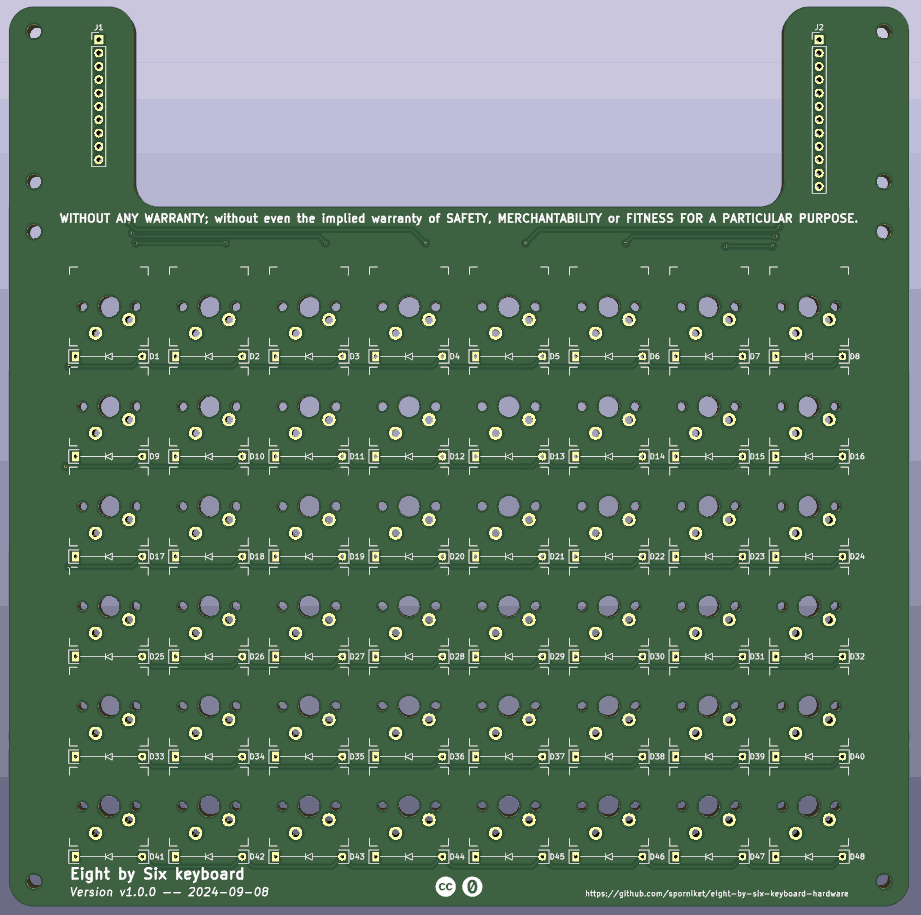
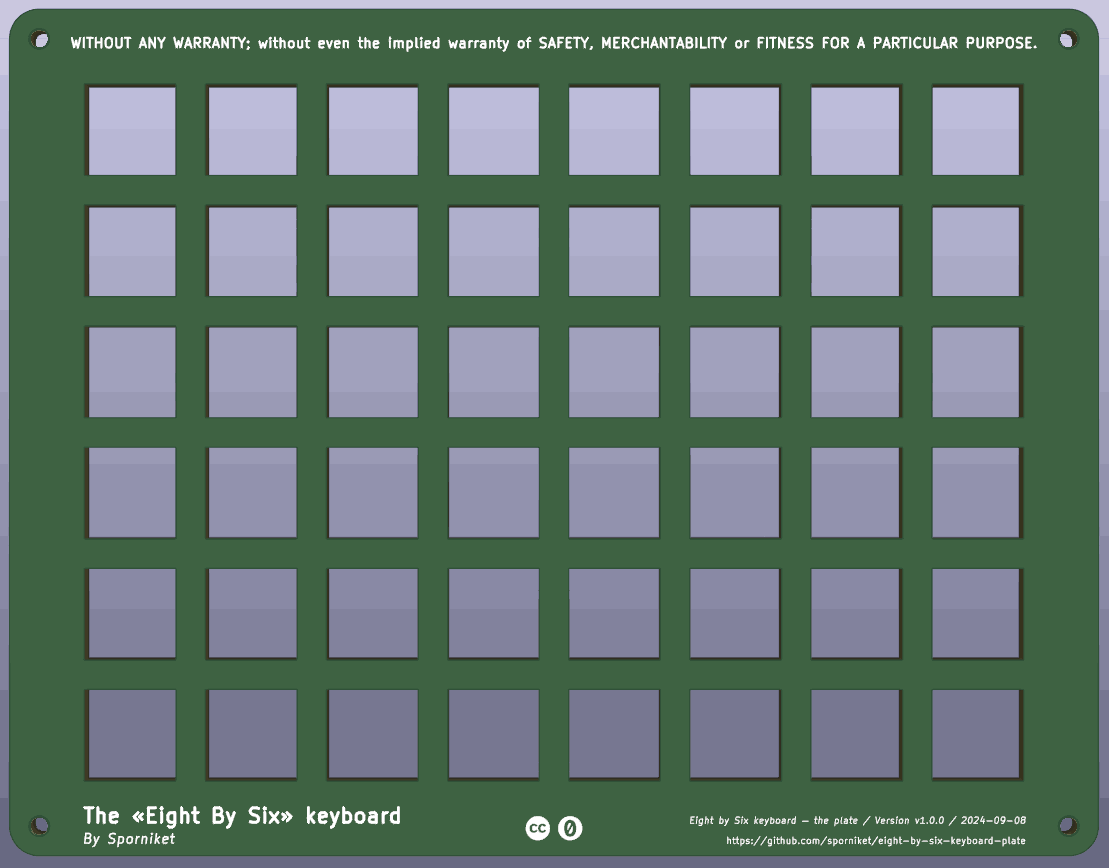
change the mention of 'hardware' to 'plate', adjust the look of the plate

diff --git a/README.md b/README.md
@@ -1,28 +1,28 @@
-# 8 columns × 6 rows keyboard hardware
+# 8 columns × 6 rows keyboard plate
 
 > [WARNING] Please read carefully this note before using this project. It contains important facts.
 
 Content
 
-1. What is **8 columns × 6 rows keyboard hardware**, and when to use it ?
-2. What should you know before using **8 columns × 6 rows keyboard hardware** ?
-3. How to use **8 columns × 6 rows keyboard hardware** ?
+1. What is **8 columns × 6 rows keyboard plate**, and when to use it ?
+2. What should you know before using **8 columns × 6 rows keyboard plate** ?
+3. How to use **8 columns × 6 rows keyboard plate** ?
 4. Known issues
 5. Miscellanous
 
-## 1. What is **8 columns × 6 rows keyboard hardware**, and when to use it ?
+## 1. What is **8 columns × 6 rows keyboard plate**, and when to use it ?
 
-**8 columns × 6 rows keyboard hardware** is a hardware project of an ortholinear, 8 columns by 6 rows, DIY keyboard. This keyboard has 2 connectors port to plug a driver board that will be driven by the micro-controller of your choice (Raspberry Pi Pico, Espressif ESP32, ATmega, ...) and will be responsible for scanning keys, displaying status and communicate with the host computer.
+**8 columns × 6 rows keyboard plate** is a plate project for an ortholinear, 8 columns by 6 rows, DIY keyboard. It's a companion project to the [8 columns × 6 rows keyboard](https://github.com/sporniket/eight-by-six-keyboard-hardware).
 
 ![PCB preview](gallery/overview.png)
 
 ### Licence
 
-**8 columns × 6 rows keyboard hardware** is published under the Creative Commons CC0 license. You can find a copy of the licence there : https://creativecommons.org/publicdomain/zero/1.0/legalcode
+**8 columns × 6 rows keyboard plate** is published under the Creative Commons CC0 license. You can find a copy of the licence there : https://creativecommons.org/publicdomain/zero/1.0/legalcode
 
 You can copy, modify, distribute and perform the work, even for commercial purposes, all without asking permission.
 
-**8 columns × 6 rows keyboard hardware** is distributed in the hope that it will be useful, but WITHOUT ANY WARRANTY; without even the implied warranty of MERCHANTABILITY or FITNESS FOR A PARTICULAR PURPOSE.
+**8 columns × 6 rows keyboard plate** is distributed in the hope that it will be useful, but WITHOUT ANY WARRANTY; without even the implied warranty of MERCHANTABILITY or FITNESS FOR A PARTICULAR PURPOSE.
 
 ### Release notes
 
@@ -30,27 +30,26 @@ You can copy, modify, distribute and perform the work, even for commercial purpo
 
 * Initial release
 
-## 2. What should you know before using **8 columns × 6 rows keyboard hardware** ?
+## 2. What should you know before using **8 columns × 6 rows keyboard plate** ?
 
-* **8 columns × 6 rows keyboard hardware** is made using Kicad 8.
-* This project use the footprint library of key switches from : https://github.com/siderakb/key-switches.pretty
+* **8 columns × 6 rows keyboard plate** is made using Kicad 8.
 
-> Do not use **8 columns × 6 rows keyboard hardware** if this project is not suitable for your project.
+> Do not use **8 columns × 6 rows keyboard plate** if this project is not suitable for your project.
 
-## 3. How to use **8 columns × 6 rows keyboard hardware** ?
+## 3. How to use **8 columns × 6 rows keyboard plate** ?
 
 ### From sources
 
 To get the latest available work, one must clone the git repository, build and install the package.
 
-	git clone --recurse-submodules https://github.com/sporniket/eight-by-six-keyboard-hardware.git
+	git clone --recurse-submodules https://github.com/sporniket/eight-by-six-keyboard-plate.git
 
 Then, open the project with Kicad 8.
 
 ## 4. Known issues
-See the [project issues](https://github.com/sporniket/eight-by-six-keyboard-hardware/issues) page.
+See the [project issues](https://github.com/sporniket/eight-by-six-keyboard-plate/issues) page.
 
 ## 5. Miscellanous
 
 ### Report issues
-Use the [project issues](https://github.com/sporniket/eight-by-six-keyboard-hardware/issues) page.
+Use the [project issues](https://github.com/sporniket/eight-by-six-keyboard-plate/issues) page.
